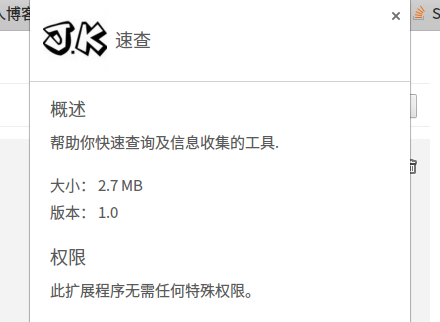
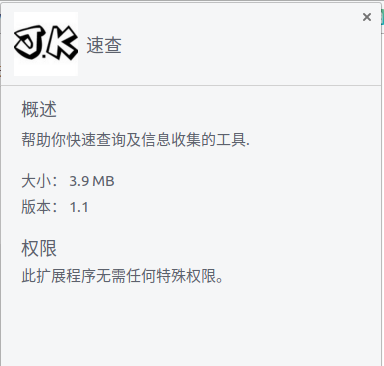
去除一些无效的相关查询站点

diff --git a/sucha.html b/sucha.html
@@ -1,5 +1,6 @@
 <html>
     <head>
+        <meta charset="utf-8">
         <link href="./css/amazeui.min.css" rel="stylesheet" type="text/css">
         <link href="./css/index.css" rel="stylesheet" type="text/css">
         </link>
@@ -8,53 +9,25 @@
 <!-- 内容 -->
 <div data-am-widget="tabs" class="am-tabs am-tabs-d2">
     <ul class="am-tabs-nav am-cf">
-        <li class="am-active"><a href="[data-tab-panel-0]">查企业查信用</a></li>
+        <li class="am-active"><a href="[data-tab-panel-0]">信息收集</a></li>
         <li class=""><a href="[data-tab-panel-1]">政府信息公开查询</a></li>
         <li class=""><a href="[data-tab-panel-2]">身份信息查询</a></li>
-        <li class=""><a href="[data-tab-panel-3]">驾驶员及车辆信息查询</a></li>
-        <li class=""><a href="[data-tab-panel-4]">查手机</a></li>
-        <li class=""><a href="[data-tab-panel-5]">查密码查开房查关系</a></li>
+        <li class=""><a href="[data-tab-panel-3]">查手机</a></li>
+        <li class=""><a href="[data-tab-panel-4]">查密码查开房查关系</a></li>
     </ul>
     <div class="am-tabs-bd">
         <div data-tab-panel-0="" class="am-tab-panel am-active">
             <div id="title">
-                <div id="tag"><a href="http://www.creditchina.gov.cn/" title="信用中国" target="_blank">信用中国</a></div>
-                <div id="tag"><a href="http://gsxt.saic.gov.cn/" title="全国企业信用信息公示" target="_blank">全国企业信用信息公示</a></div>
-                <div id="tag"><a href="http://www.creditchina.gov.cn/toNavigation" title="信用导航" target="_blank">信用导航</a></div>
-                <div id="tag"><a href="http://www.qixin.com/" title="企信宝" target="_blank">企信宝</a></div>
-                <div id="tag"><a href="http://www.ixy360.com/" title="企业信用信息查询APP" target="_blank">企业信用信息查询APP</a></div>
+                <div id="tag"><a href="http://whois.iana.org/" title="Whois" target="_blank">Whois</a></div>
+                <div id="tag"><a href="http://whois.arin.net/rest/ip/127.0.0.1" title="arin" target="_blank">arin</a></div>
+                <div id="tag"><a href="https://who.is/" title="who.is" target="_blank">who.is</a></div>
+                <div id="tag"><a href="http://centralops.net/co" title="邮箱地址追踪" target="_blank">邮箱地址追踪</a></div>
+                <div id="tag"><a href="http://www.pop.robtex.com" title="尝试CDN追踪" target="_blank">尝试CDN追踪</a></div>
             </div>
             <hr data-am-widget="divider" style="" class="am-divider am-divider-default">
             <div id="title">
-                <div id="tag"><a href="http://www.qichacha.com/" title="企查查" target="_blank">企查查</a></div>
-                <div id="tag"><a href="http://www.xinyong12315.com/" title="企业云数据征信中心" target="_blank">企业云数据征信中心</a></div>
-                <div id="tag"><a href="http://www.tianyancha.com/" title="天眼查" target="_blank">天眼查</a></div>
-                <div id="tag"><a href="http://www.x315.com/" title="信用视界" target="_blank">信用视界</a></div>
-                <div id="tag"><a href="http://www.xizhi.com/" title="悉知" target="_blank">悉知</a></div>
-            </div>
-            <hr data-am-widget="divider" style="" class="am-divider am-divider-default">
-            <div id="title">
-                <div id="tag"><a href="http://credit.ndrc.gov.cn/XYXX/admin_client/form_designer/ttt/index.html" title="发改委信用信息查询" target="_blank">发改委信用信息查询</a></div>
-                <div id="tag"><a href="http://hd.chinatax.gov.cn/xxk/" title="重大税收违法案件信息" target="_blank">重大税收违法案件信息</a></div>
-                <div id="tag"><a href="http://credit.customs.gov.cn/" title="进出口信用信息公示查询" target="_blank">进出口信用信息公示查询</a></div>
-                <div id="tag"><a href="http://www.itrust.org.cn/home/index/xy_search.html" title="网站信用信息查询" target="_blank">网站信用信息查询</a></div>
-                <div id="tag"><a href="http://www.mohurd.gov.cn/docmaap/" title="建筑市场监管与诚信信息发布平台" target="_blank">建筑市场监管与诚信信息发布平台</a></div>
-            </div>
-            <hr data-am-widget="divider" style="" class="am-divider am-divider-default">
-            <div id="title">
-                <div id="tag"><a href="http://wenshu.court.gov.cn/" title="中国裁判文书网" target="_blank">中国裁判文书网</a></div>
-                <div id="tag"><a href="http://zhixing.court.gov.cn/search/ " title="全国法院被执行人信息查询" target="_blank">全国法院被执行人信息查询</a></div>
-                <div id="tag"><a href="http://shixin.court.gov.cn/" title="执行信息公开网" target="_blank">执行信息公开网</a></div>
-                <div id="tag"><a href="http://www.pkulaw.cn/Case/" title="北大法宝" target="_blank">北大法宝</a></div>
-                <div id="tag"><a href="http://www.mohurd.gov.cn/wbdt/dwzzcx/index.html" title="建筑企业查询" target="_blank">建筑企业查询</a></div>
-            </div>
-            <hr data-am-widget="divider" style="" class="am-divider am-divider-default">
-            <div id="title">
-                <div id="tag"><a href="http://www.nacao.org.cn/publish/main/5/index.html " title="组织机构代码查询" target="_blank">组织机构代码查询</a></div>
-                <div id="tag"><a href="http://www.aqsiq.gov.cn/search/gyxkz/" title="工业产品生产许可获证企业查询" target="_blank">工业产品生产许可获证企业查询</a></div>
-                <div id="tag"><a href="http://www.miitbeian.gov.cn/publish/query/indexFirst.action" title="域名信息备案管理系统1" target="_blank">域名信息备案管理系统1</a></div>
-                <div id="tag"><a href="http://whois.chinaz.com/" title="域名信息备案管理系统2" target="_blank">域名信息备案管理系统2</a></div>
-                <div id="tag"><a href="http://www.chinanpo.gov.cn/search/searchOrgList.do?action=searchOrgList" title="全国民间组织查询" target="_blank">全国民间组织查询</a></div>
+                <div id="tag"><a href="http://www.oshadan.com/" title="傻蛋联网设备搜索系统" target="_blank">傻蛋联网设备搜索系统</a></div>
+                <div id="tag"><a href="http://www.exploit-db.com/google-dorks" title="google hacking" target="_blank">google hacking</a></div>
             </div>
         </div>
         <div data-tab-panel-1="" class="am-tab-panel ">
@@ -128,15 +101,6 @@
         </div>
         <div data-tab-panel-3="" class="am-tab-panel">
             <div id="title">
-                <div id="tag"><a href="http://www.bitauto.com/weizhang/jiashizheng/suining.html" title="驾驶证行驶证身份证查询" target="_blank">驾驶证行驶证身份证查询</a></div>
-                <div id="tag"><a href="http://www.weizhang8.cn/" title="全国车辆违章查询平台" target="_blank">全国车辆违章查询平台</a></div>
-                <div id="tag"><a href="http://chaxun.weizhang8.cn/guanfangwang.php" title="全国机动车违章查询系统" target="_blank">全国机动车违章查询系统</a></div>
-                <div id="tag"><a href="http://www.weizhangwang.com/" title="全国交通违章查询" target="_blank">全国交通违章查询</a></div>
-                <div id="tag"><a href="http://www.nia.net.cn/lp_service.asp" title="车险理赔系统网址" target="_blank">车险理赔系统网址</a></div>
-            </div>
-        </div>
-        <div data-tab-panel-4="" class="am-tab-panel">
-            <div id="title">
                 <div id="tag"><a href="http://www.2cha.com/" title="爱查" target="_blank">爱查</a></div>
                 <div id="tag"><a href="http://17000.net.cn/" title="虚拟运营商查询" target="_blank">虚拟运营商查询</a></div>
                 <div id="tag"><a href="http://www.100170.net/" title="170手机归属地查询" target="_blank">170手机归属地查询</a></div>
@@ -168,7 +132,7 @@
                 <div id="tag"><a href="http://www.imeidb.com/#lookup" title="手机串号IMEI查询" target="_blank">手机串号IMEI查询</a></div>
             </div>
         </div>
-        <div data-tab-panel-5="" class="am-tab-panel">
+        <div data-tab-panel-4="" class="am-tab-panel">
             <div id="title">
                 <div id="tag"><a href="http://mi.ckaifang.com/" title="查小米" target="_blank">查小米</a></div>
                 <div id="tag"><a href="http://www.sgk98.com/" title="sgk98" target="_blank">sgk98</a></div>
